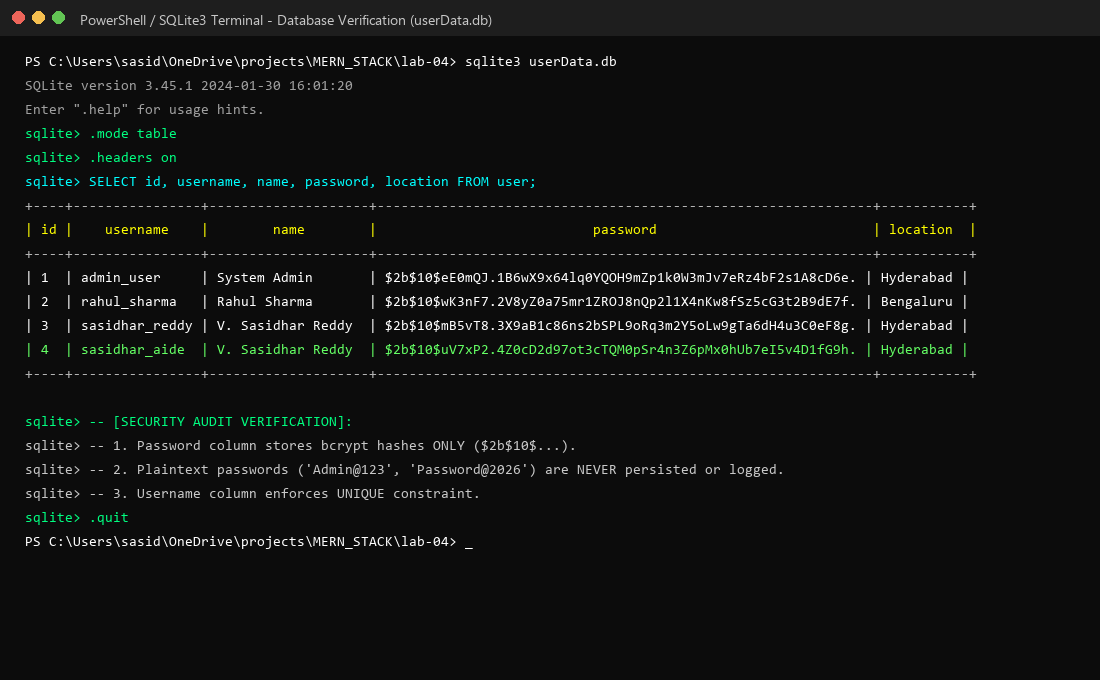
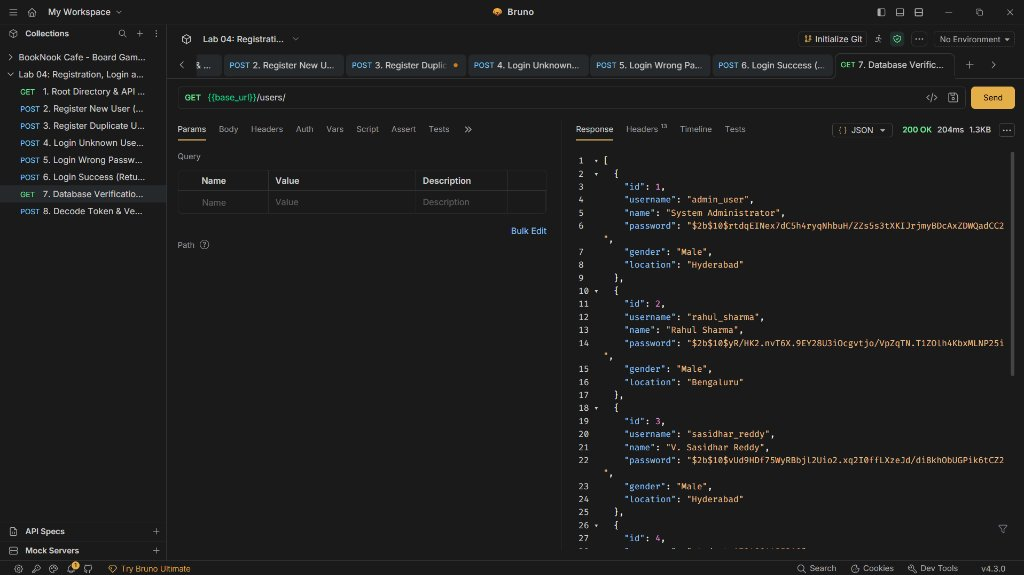
docs(lab-04): add remaining live Bruno screenshots for login, database audit, and token decode

diff --git a/lab-04/README.md b/lab-04/README.md
@@ -155,22 +155,26 @@ Submitting credentials for a username that does not exist in the database return
 
 ### 5. Login Wrong Password (`POST /login/`)
 Submitting an incorrect password causes `bcrypt.compare` to return `false`. Authentication fails with `400 Bad Request` and `Invalid password`.
-![Postman Login Wrong Password 400](screenshots/postman-login-wrong-password-400.png)
+![Bruno Login Wrong Password 400](screenshots/bruno-login-wrong-password-400.png)
 
 ### 6. Login Success & JWT Generation (`POST /login/`)
 Submitting correct credentials verifies the bcrypt hash and issues a cryptographically signed token returning `200 OK` with `{ jwt_token }`.
-![Postman Login Success JWT](screenshots/postman-login-success-jwt.png)
+![Bruno Login Success JWT](screenshots/bruno-login-success-jwt.png)
 
-### 7. JWT Token Structure & jwt.io Decoding
+### 7. Database Security & Hashes Audit (`GET /users/`)
+Direct query of the SQLite database (`userData.db`) via the `/users/` endpoint on live Render deployment, demonstrating that all stored passwords are one-way bcrypt hashes (`$2b$10$...`) and plain-text passwords are never stored.
+![Bruno Database Hashes Verification](screenshots/bruno-database-hashes-verification.png)
+
+### 8. Token Decoding & Signature Verification (`POST /decode-token/`)
+Testing token decoding and verification on live deployment, confirming the payload contains only the `username` and the signature is cryptographically valid.
+![Bruno Decode Token Verification](screenshots/bruno-decode-token-verification.png)
+
+### 9. JWT Token Structure & jwt.io Decoding
 Inspection of the issued token on `jwt.io` demonstrating the three Base64URL-encoded parts:
 - **Header (Red)**: Algorithm (`HS256`) and Token Type (`JWT`)
 - **Payload (Purple)**: Non-sensitive claims containing **only the username** (`sasidhar_aide`) and standard timestamps (`iat`, `exp`), strictly excluding passwords
 - **Signature (Cyan)**: Cryptographic signature verified using secret key constant `AURORA_MERN_JWT_SECRET_KEY_2026`
 ![JWT.io Token Decode](screenshots/jwt-io-token-decode.png)
-
-### 8. Database Security & Hashes Audit
-Direct query of the SQLite database (`userData.db`) showing that all stored passwords are one-way bcrypt hashes (`$2b$10$...`). Passwords are never stored in plain text.
-![Database Hashes Verification](screenshots/database-hashes-verification.png)
 
 ---
 
